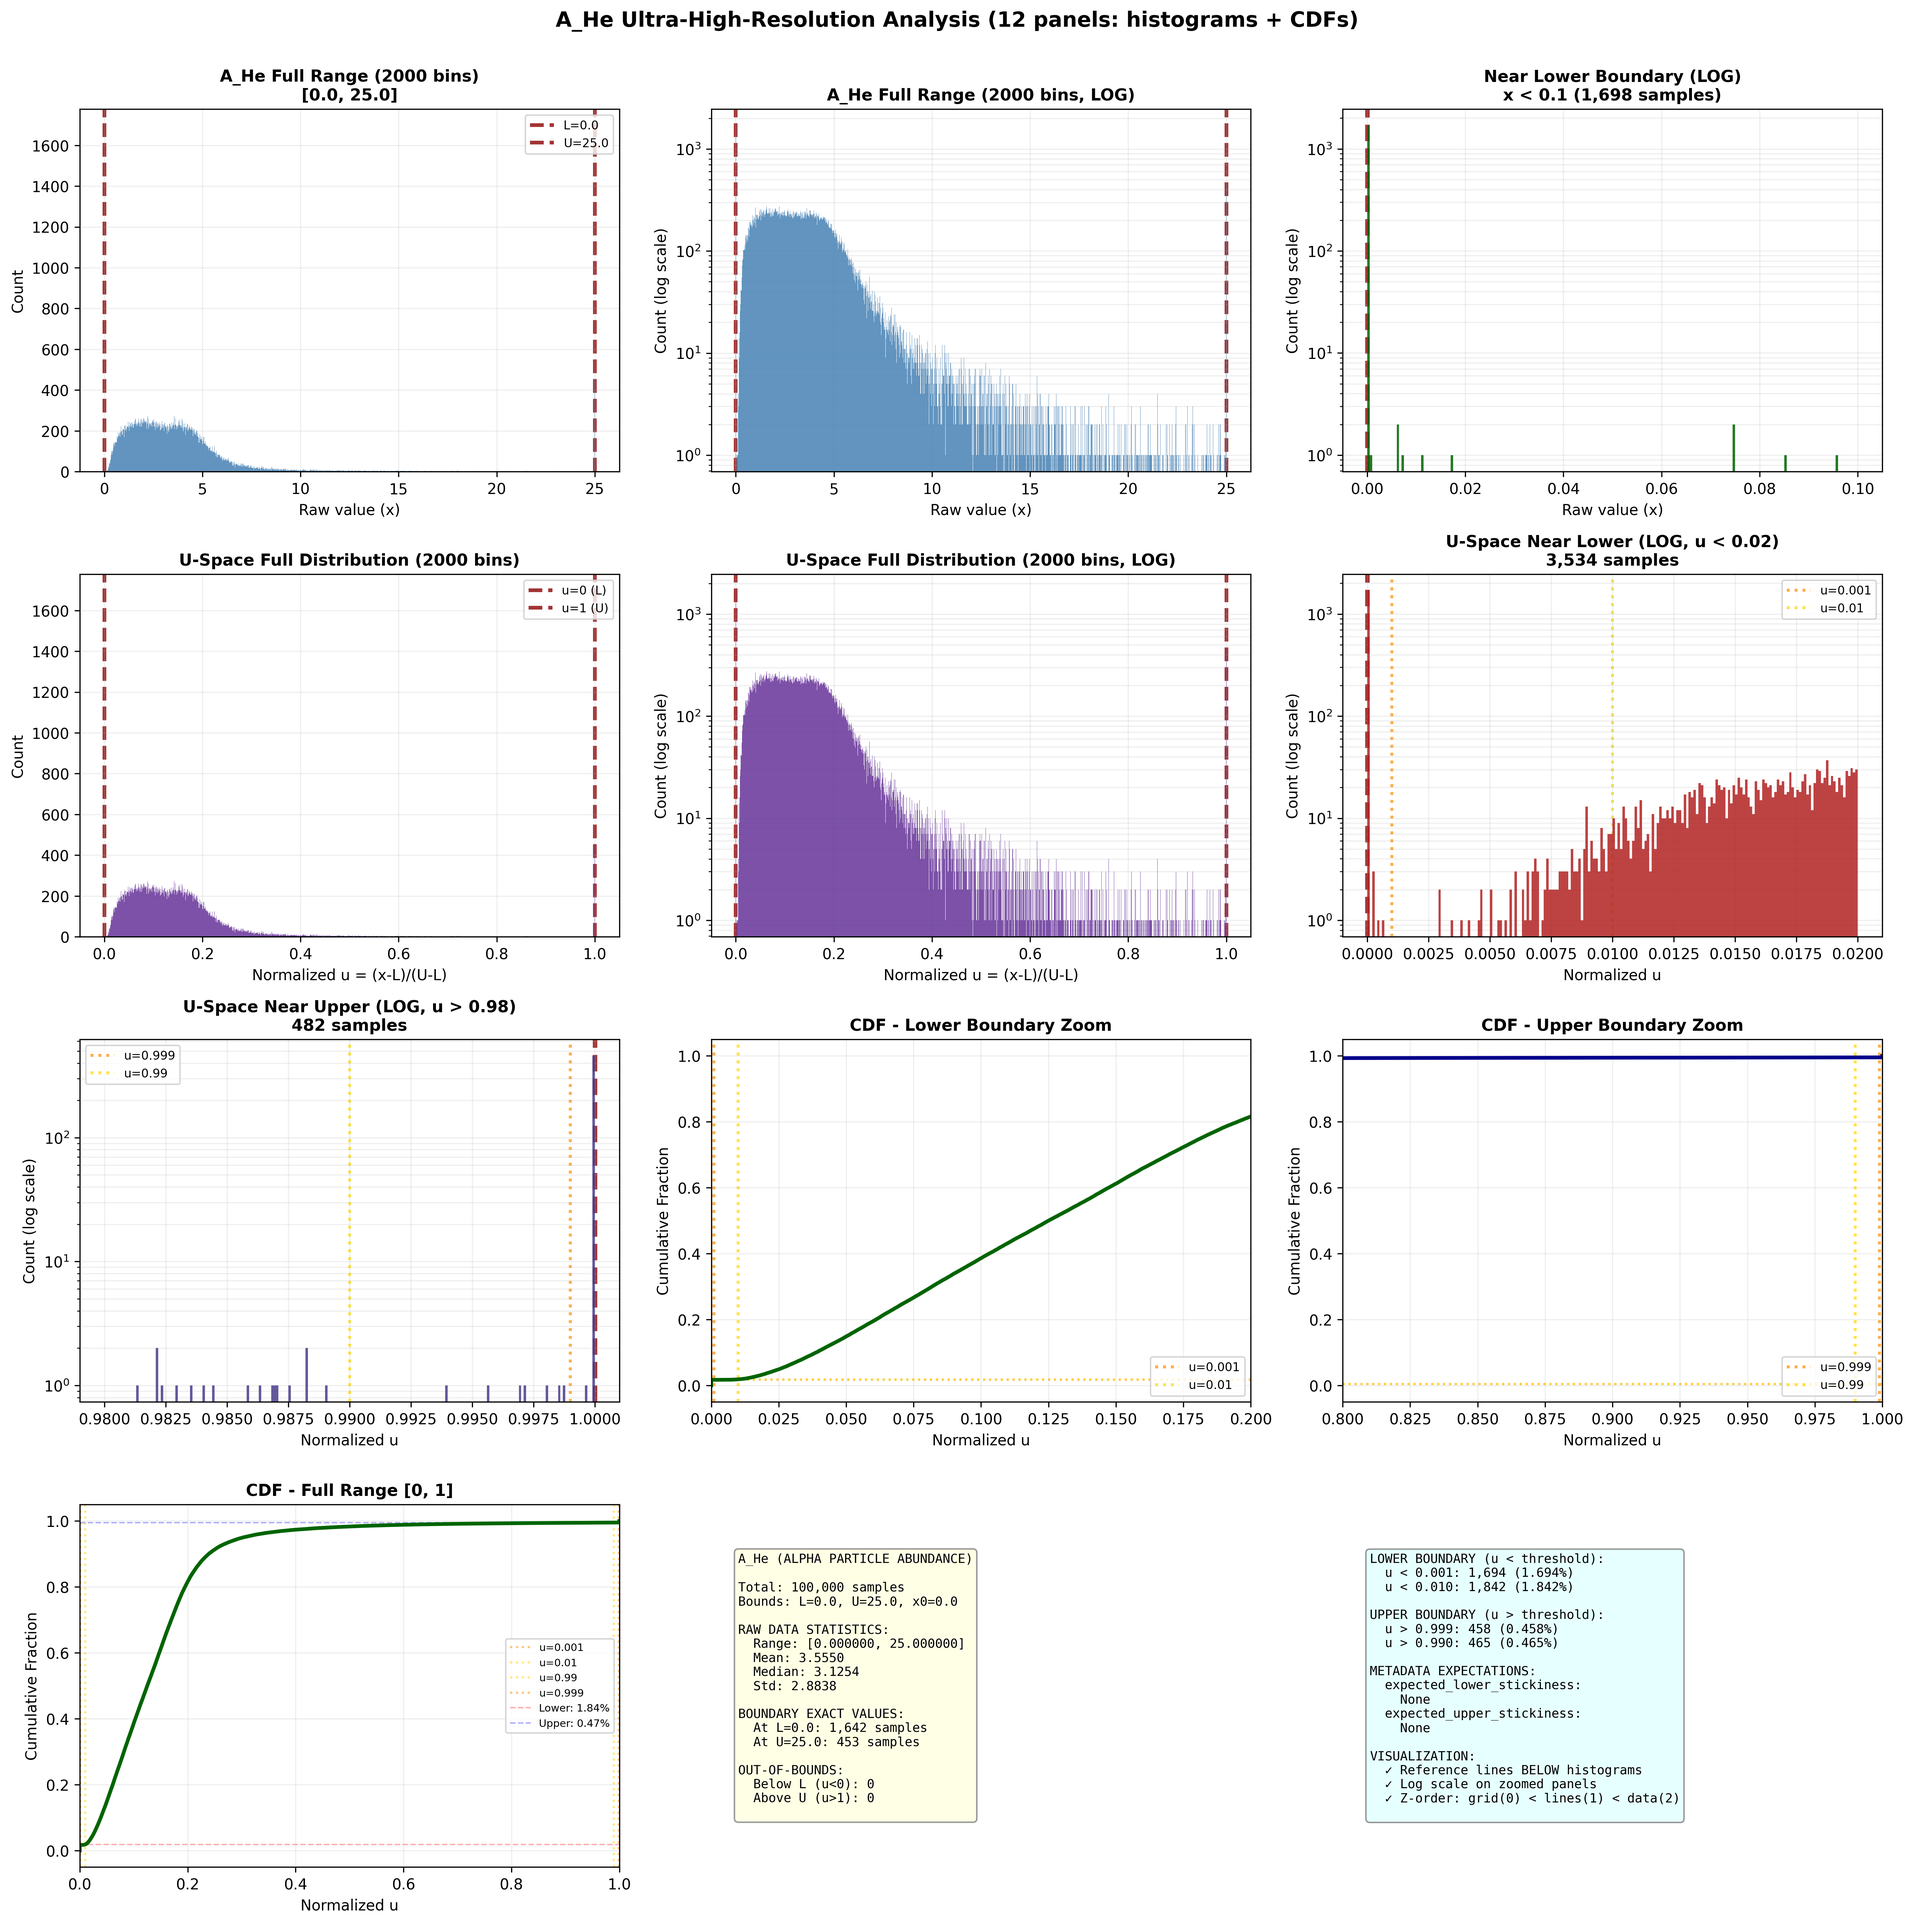
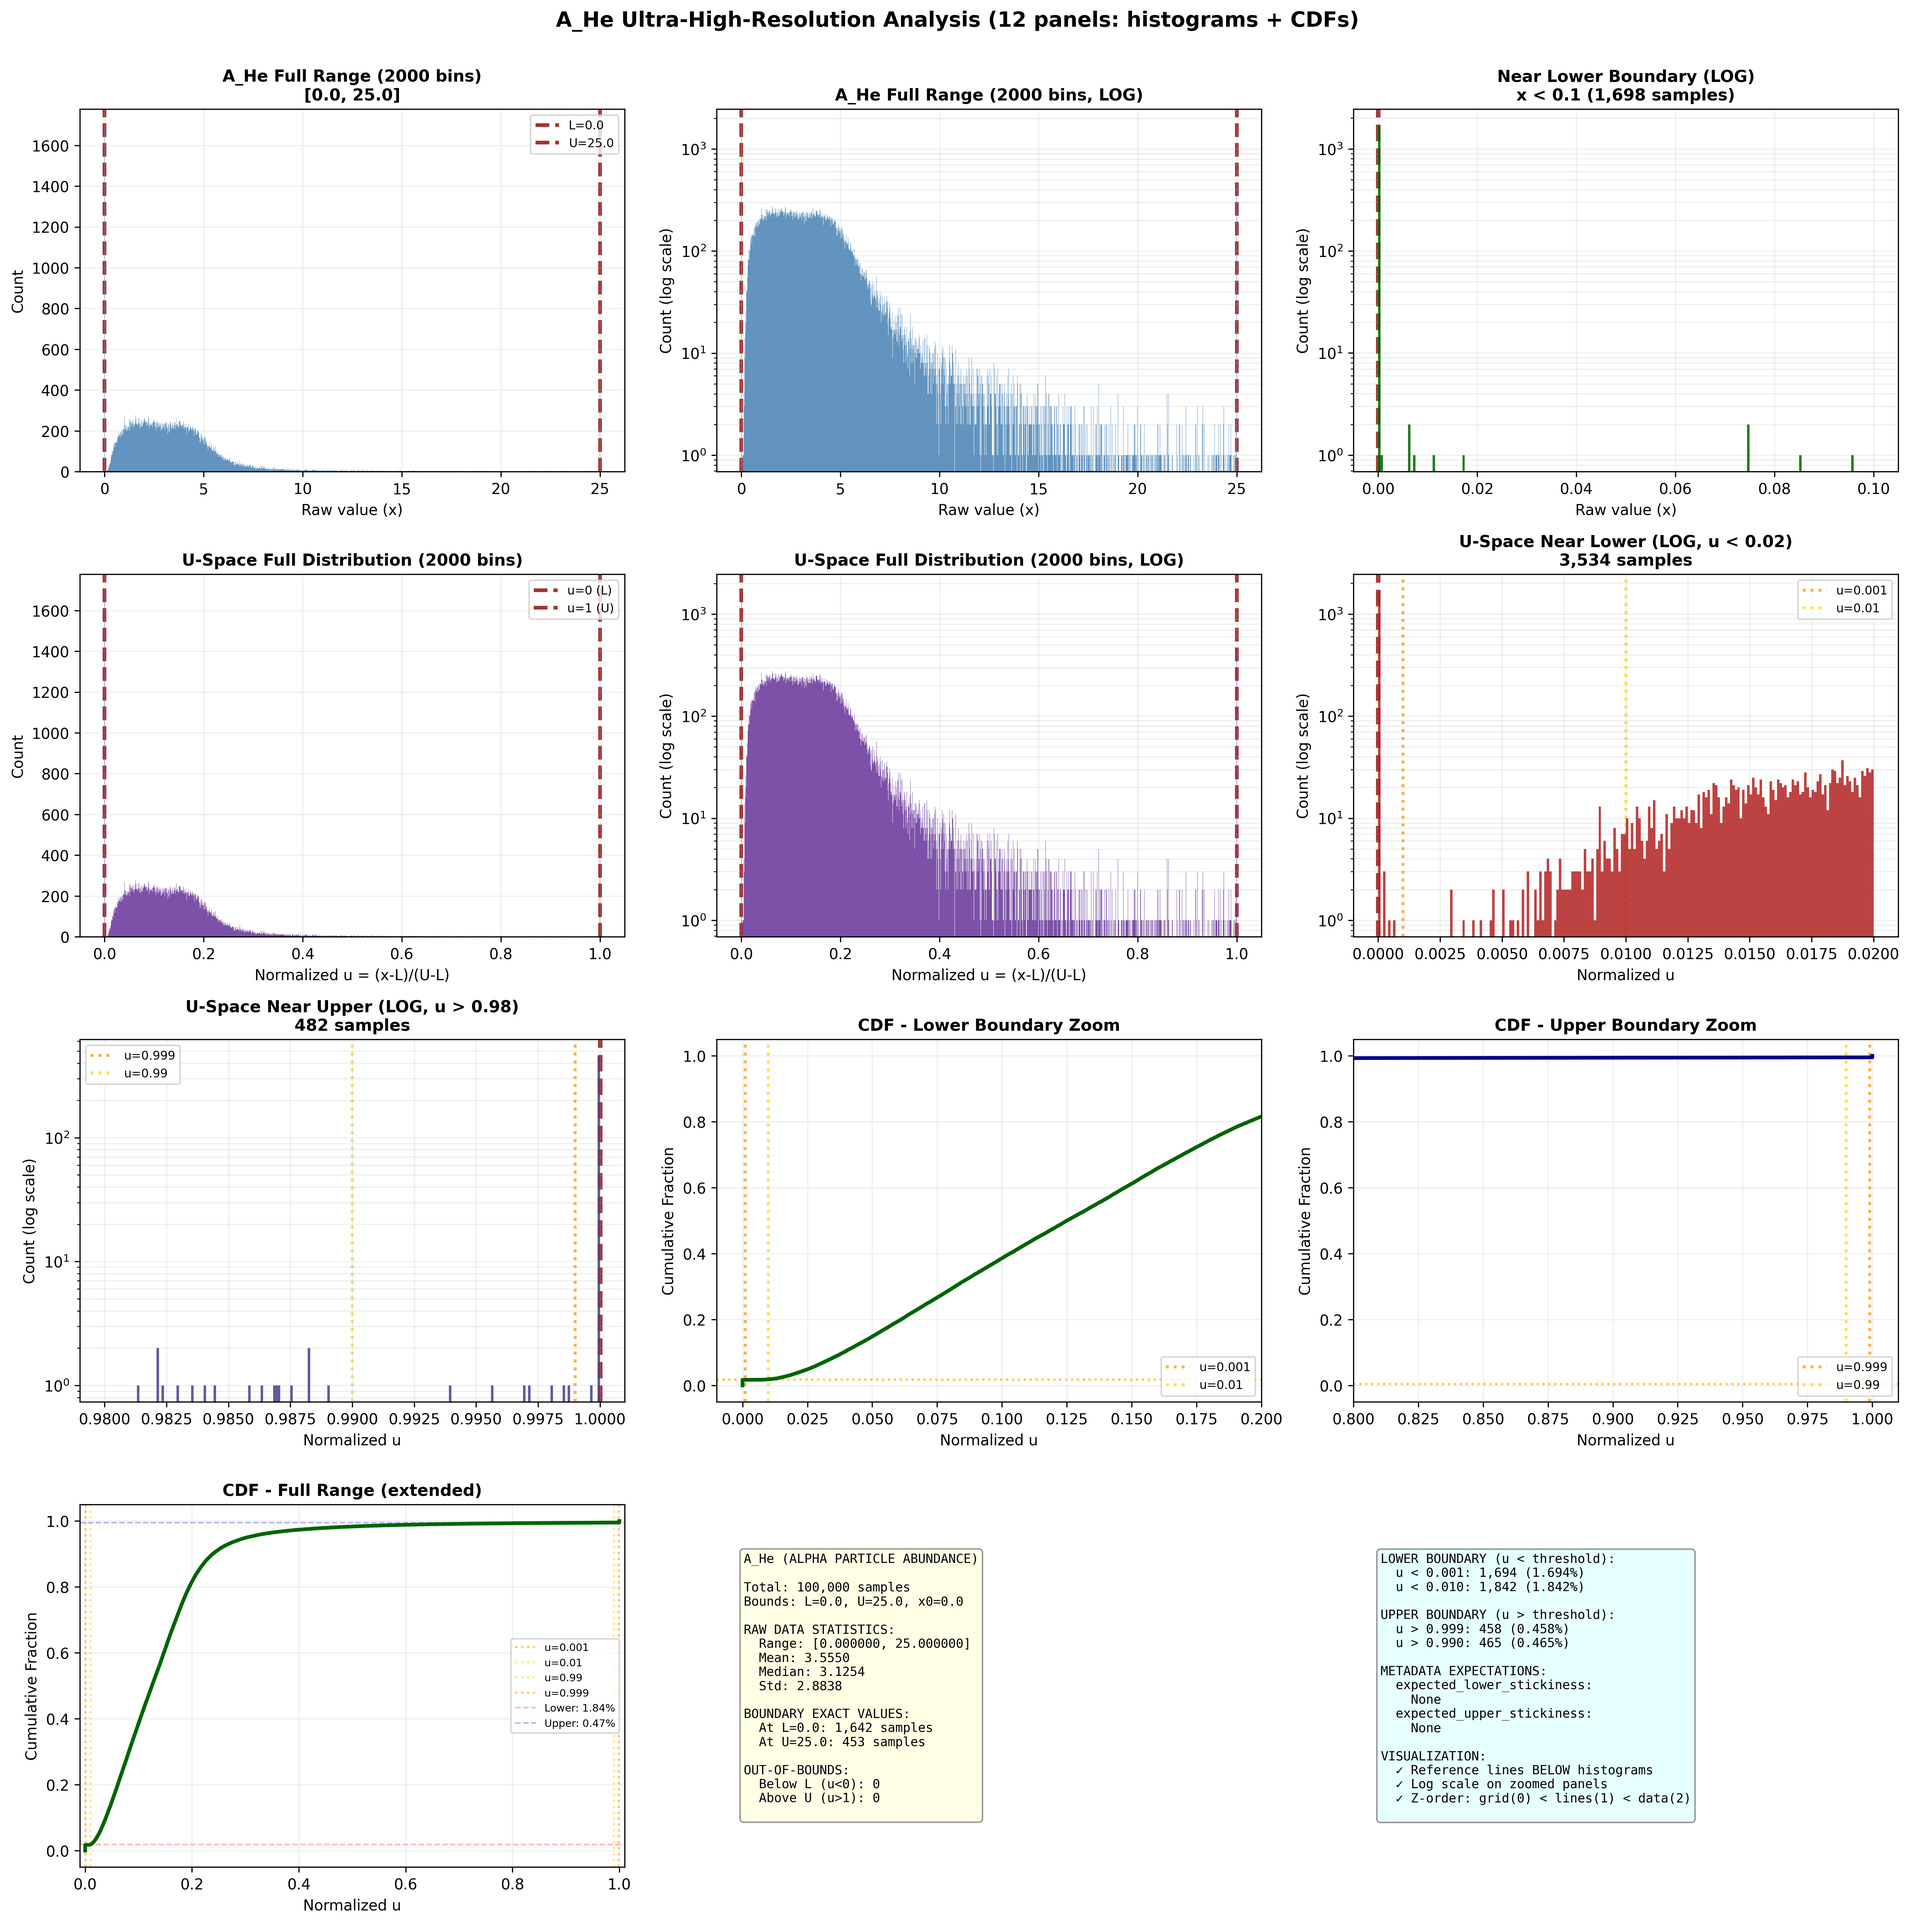
fix: update plot_A_He_improved.py to save to correct subdirectory
Updated output paths to save to figures/A_He/ subdirectory:
- figures/A_He/A_He_improved_analysis.png
- figures/A_He/A_He_improved_analysis_hires.png

This aligns with the reorganized directory structure (Option 2) where
all dataset files are grouped in their respective subdirectories.

Also moved the previously generated files to the correct location.

diff --git a/plot_A_He_improved.py b/plot_A_He_improved.py
@@ -344,12 +344,12 @@ plt.suptitle('A_He Ultra-High-Resolution Analysis (12 panels: histograms + CDFs)
 plt.tight_layout(rect=[0, 0, 1, 0.995])
 
 # Save
-output_path = Path("figures/A_He_improved_analysis.png")
-output_path.parent.mkdir(exist_ok=True)
+output_path = Path("figures/A_He/A_He_improved_analysis.png")
+output_path.parent.mkdir(exist_ok=True, parents=True)
 plt.savefig(output_path, dpi=150, bbox_inches='tight')
 print(f"\nSaved: {output_path}")
 
-output_path_hires = Path("figures/A_He_improved_analysis_hires.png")
+output_path_hires = Path("figures/A_He/A_He_improved_analysis_hires.png")
 plt.savefig(output_path_hires, dpi=300, bbox_inches='tight')
 print(f"Saved: {output_path_hires}")
 
